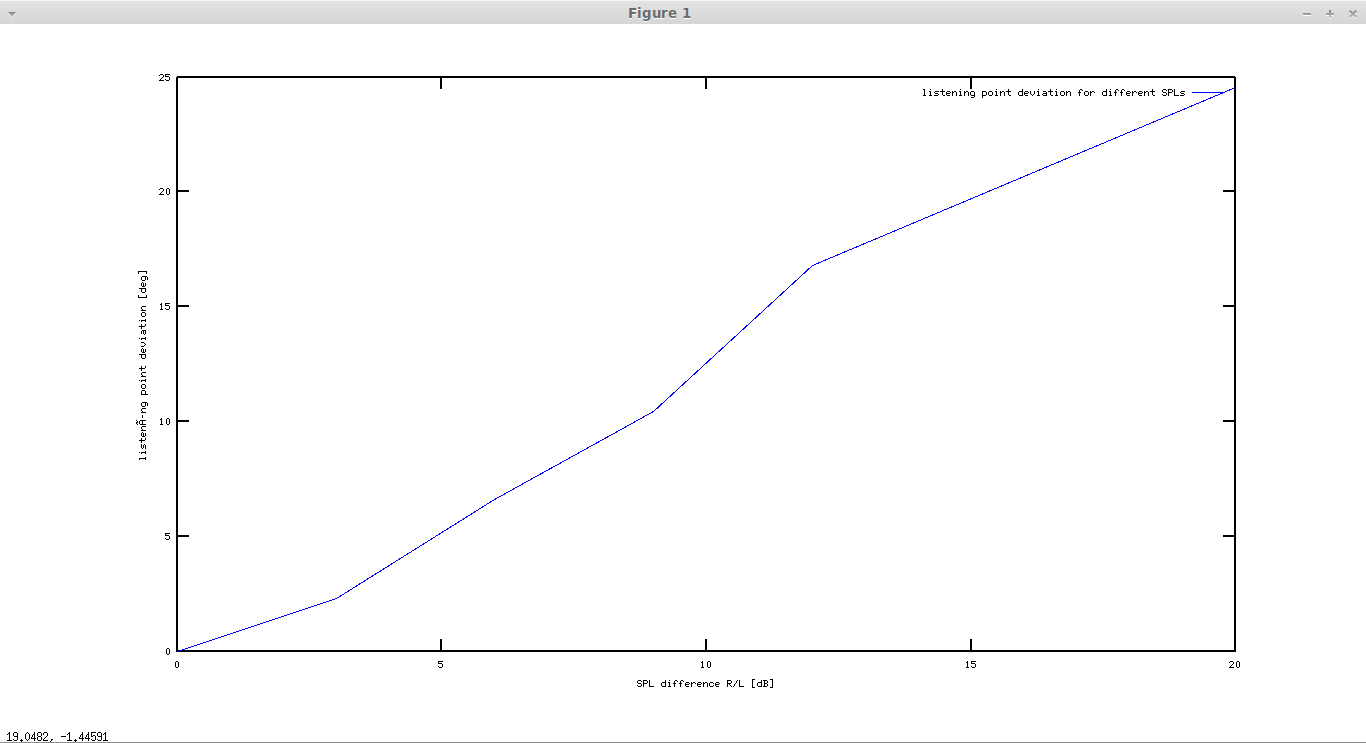
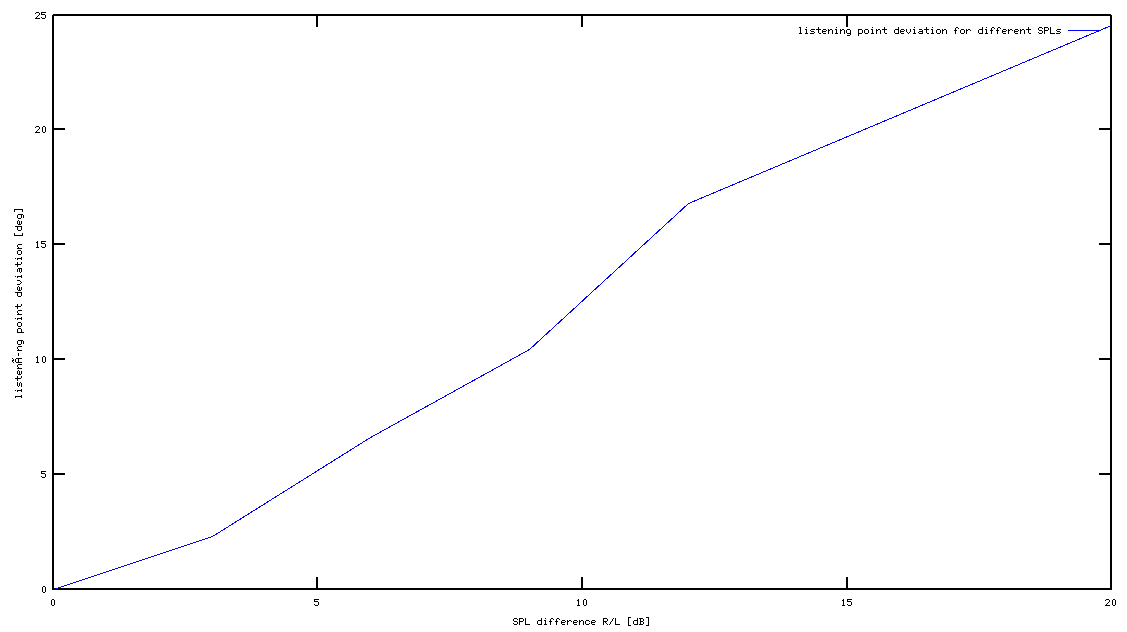
updated spl figure, timedifference figure, added spl figure to report

diff --git a/TTT4170_Audiotechnology/Lab2/report.tex b/TTT4170_Audiotechnology/Lab2/report.tex
@@ -79,8 +79,15 @@ In this task the position of the virtual sound source regarding to a sound press
 \label{fig:listening}
 \end{center}
 \end{figure}
+In this task it can be found out, that with no amplitude difference the sound source appears exactly in the center between the two loudspeakers. With increasing difference of SPL the virtual sound source moves to the speaker with higher sound pressure level. When the sound pressure difference is high enough, the sound is heard as coming only from one speaker. The measured sound source deviation can be seen in table \ref{tab:SPL} as well as in figure \ref{fig:SPL}.
 \subsection{sound source deviation $\Delta t$}
-
+\begin{figure}[htbp]
+\begin{center}
+\includegraphics[width=15cm,keepaspectratio=true]{SPL}
+\caption{Sound source deviation for different SPLs in degrees}
+\label{fig:SPL}
+\end{center}
+\end{figure}
 
 
 \begin{table}
